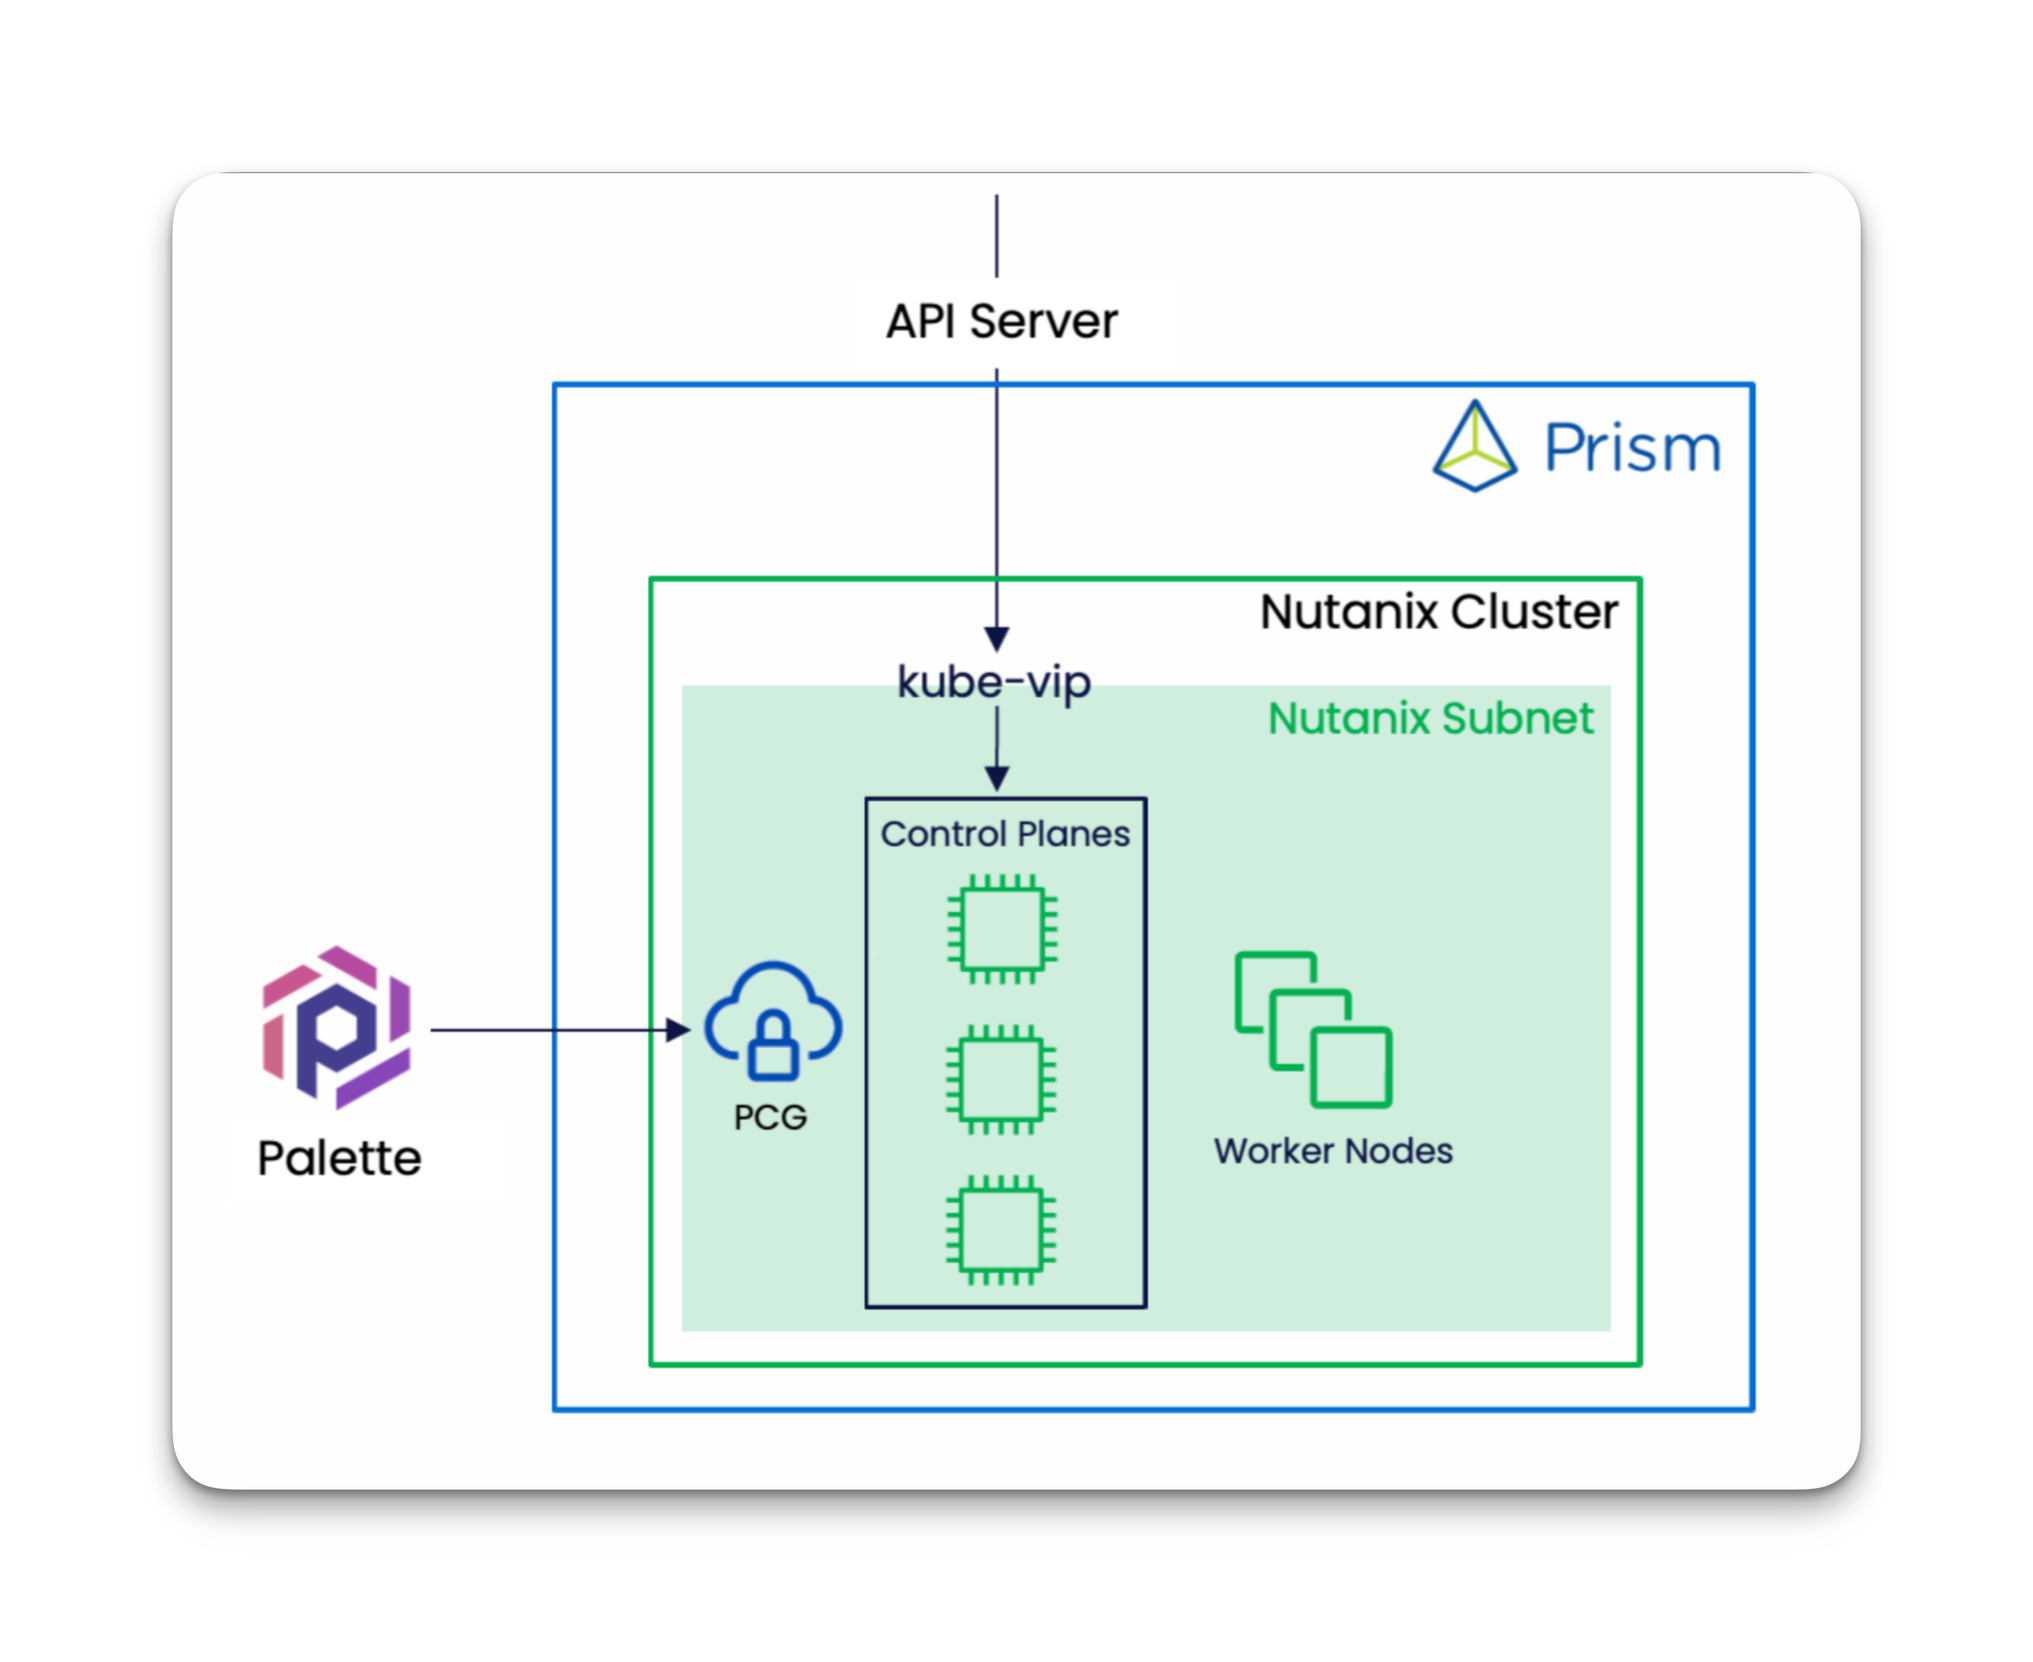
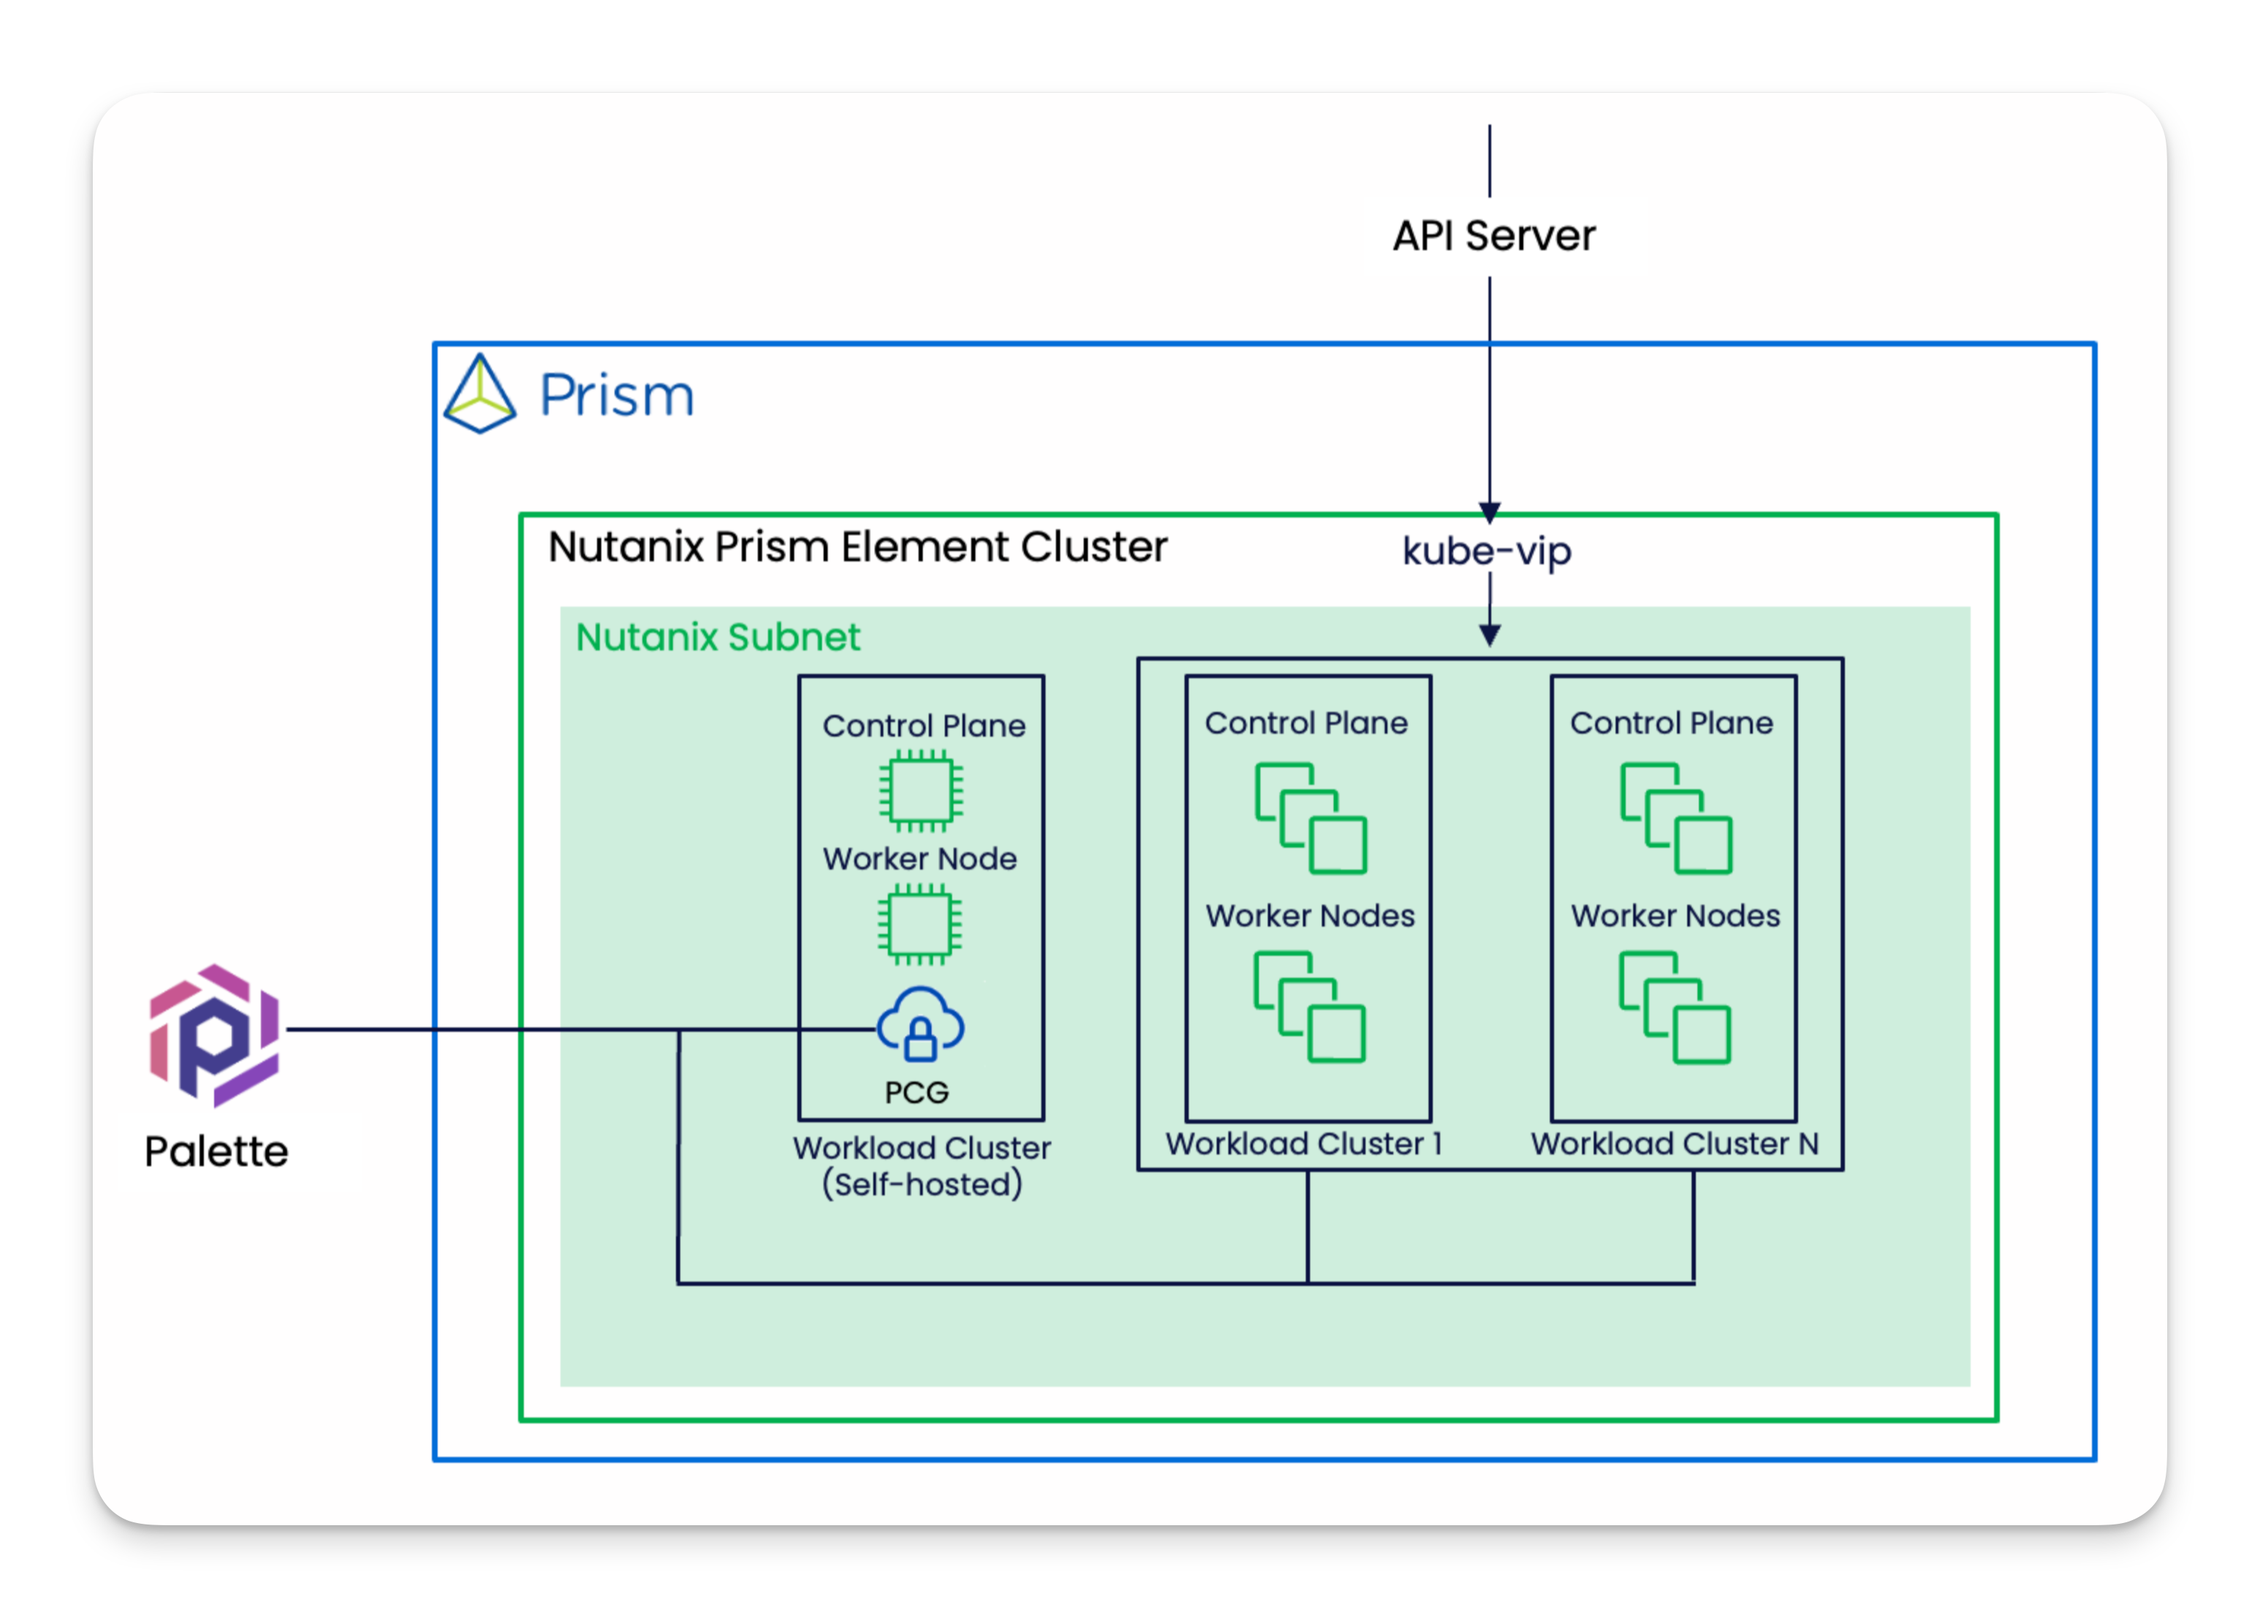
docs: replace Nutanix architecture diagram

Changed region(s): [[0.0309, 0.1246, 0.958, 0.9657], [0.618, 0.1246, 0.7107, 0.1558]]

diff --git a/docs/docs-content/clusters/data-center/nutanix/architecture.md b/docs/docs-content/clusters/data-center/nutanix/architecture.md
@@ -24,7 +24,7 @@ Below are key architectural highlights of Nutanix clusters provisioned through P
 
 - The Kubernetes API Server endpoint is accessible through kube-vip, which is a load balancing solution for the cluster’s control plane. Kube-vip distributes API requests across control plane nodes and also has fail over capabilities.
 
-- A Private Cloud Gateway (PCG) is required to enable Palette to securely communicate with the Nutanix cloud. The direct communication channel allows Palette to create clusters within the Nutanix cloud.
+- A Private Cloud Gateway (PCG) is required to enable Palette to securely communicate with the Nutanix cloud. The direct communication channel allows Palette to create clusters within the Nutanix cloud. A self-hosted cluster is needed for the PCG deployment. The [Setup](install-pcg.md/#setup) section of the [Install Private Cloud Gateway](install-pcg.md) guide provides the steps to deploy a self-hosted cluster within the Nutanix infrastructure.
 
 The following diagram illustrates the Nutanix architecture.
 
